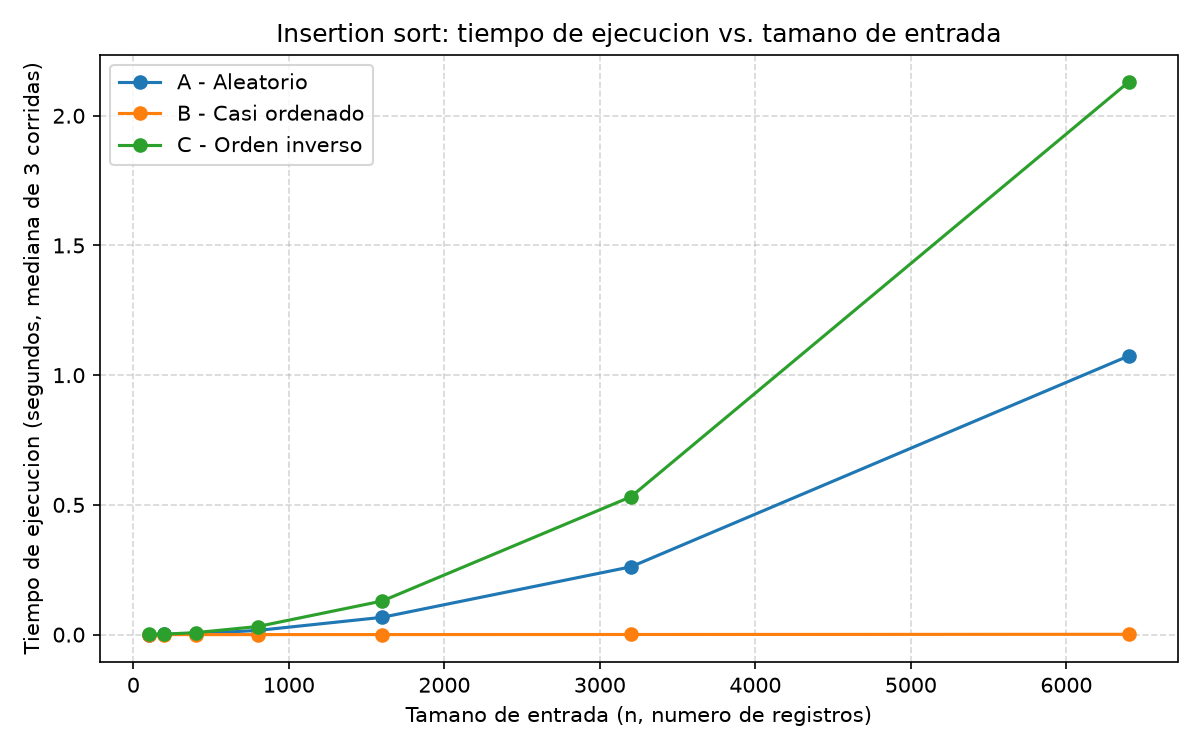
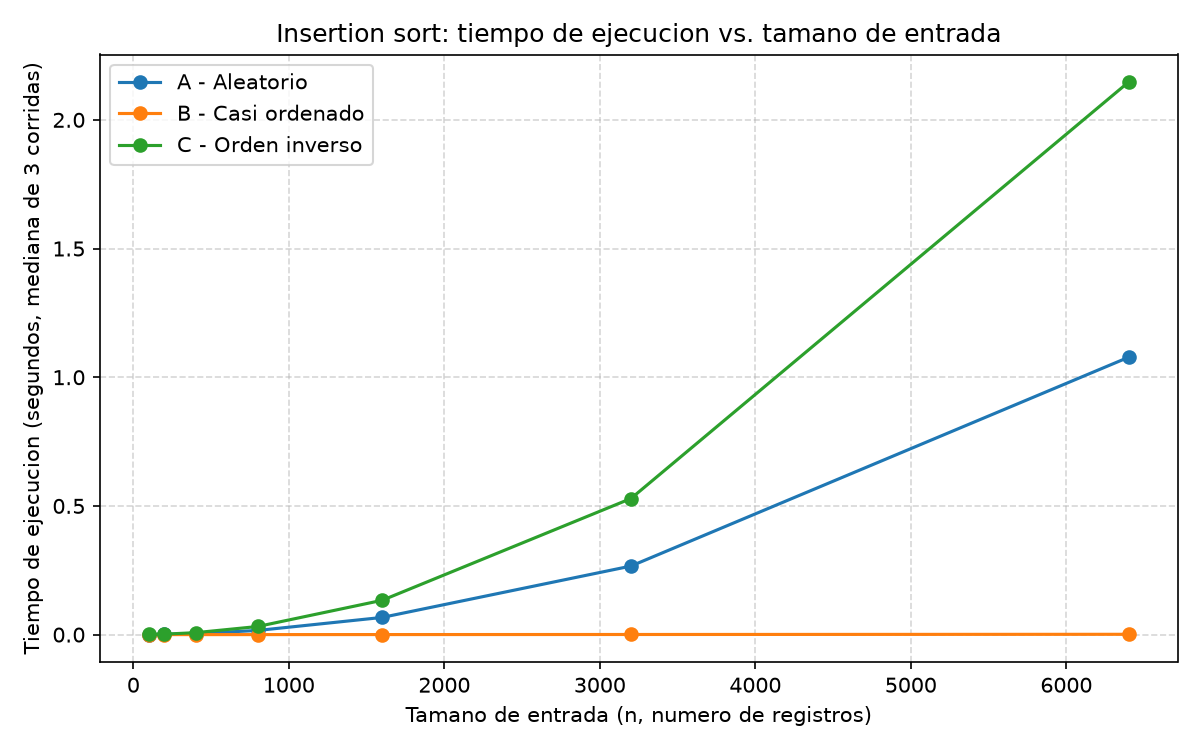
docstrings y type hints que faltaban, numeros del readme iguales a las graficas

diff --git a/lab1-fundamentos-complejidad-recurrencias/algoritmos.py b/lab1-fundamentos-complejidad-recurrencias/algoritmos.py
@@ -50,6 +50,14 @@ def merge_sort(datos: list[int]) -> tuple[list[int], int]:
     comparaciones = 0
 
     def _dividir(sublista: list[int]) -> list[int]:
+        """Parte la lista en dos mitades, las ordena y las mezcla.
+
+        Args:
+            sublista: trozo de la lista original a ordenar.
+
+        Returns:
+            Una lista nueva con los elementos de sublista, de mayor a menor.
+        """
         nonlocal comparaciones
         if len(sublista) <= 1:
             return list(sublista)
@@ -59,6 +67,15 @@ def merge_sort(datos: list[int]) -> tuple[list[int], int]:
         return _mezclar(izquierda, derecha)
 
     def _mezclar(izquierda: list[int], derecha: list[int]) -> list[int]:
+        """Une dos listas ya ordenadas de mayor a menor en una sola.
+
+        Args:
+            izquierda: primera lista, ya ordenada.
+            derecha: segunda lista, ya ordenada.
+
+        Returns:
+            Una lista nueva con todos los elementos, ordenada.
+        """
         nonlocal comparaciones
         mezclada = []
         i = j = 0

diff --git a/lab1-fundamentos-complejidad-recurrencias/parte3_casos.py b/lab1-fundamentos-complejidad-recurrencias/parte3_casos.py
@@ -7,6 +7,7 @@ parte3_comparaciones.png y parte3_tiempo.png en graficas/.
 
 import statistics
 import time
+from collections.abc import Callable
 from pathlib import Path
 
 import matplotlib.pyplot as plt
@@ -25,7 +26,9 @@ ESCENARIOS = {
 }
 
 
-def medir_escenario(generador, n: int) -> tuple[float, int]:
+def medir_escenario(
+    generador: Callable[[int], list[int]], n: int
+) -> tuple[float, int]:
     """Mide el tiempo mediano y las comparaciones de insertion_sort.
 
     Args:
@@ -99,6 +102,7 @@ def graficar_tiempo(resultados: dict) -> None:
 
 
 def main() -> None:
+    """Corre el experimento y guarda las dos graficas de la Parte 3."""
     CARPETA_GRAFICAS.mkdir(exist_ok=True)
     resultados = ejecutar_experimento()
     graficar_comparaciones(resultados)

diff --git a/lab1-fundamentos-complejidad-recurrencias/parte4_complejidad.py b/lab1-fundamentos-complejidad-recurrencias/parte4_complejidad.py
@@ -7,6 +7,7 @@ parte4_tiempo.png en graficas/.
 
 import statistics
 import time
+from collections.abc import Callable
 from pathlib import Path
 
 import matplotlib.pyplot as plt
@@ -24,7 +25,9 @@ ALGORITMOS = {
 }
 
 
-def medir_algoritmo(algoritmo, n: int) -> float:
+def medir_algoritmo(
+    algoritmo: Callable[[list[int]], tuple[list[int], int]], n: int
+) -> float:
     """Mide el tiempo mediano de un algoritmo sobre el escenario A.
 
     Args:
@@ -77,6 +80,7 @@ def graficar_tiempo(resultados: dict) -> None:
 
 
 def main() -> None:
+    """Corre la comparacion y guarda la grafica de la Parte 4."""
     CARPETA_GRAFICAS.mkdir(exist_ok=True)
     resultados = ejecutar_experimento()
     graficar_tiempo(resultados)
